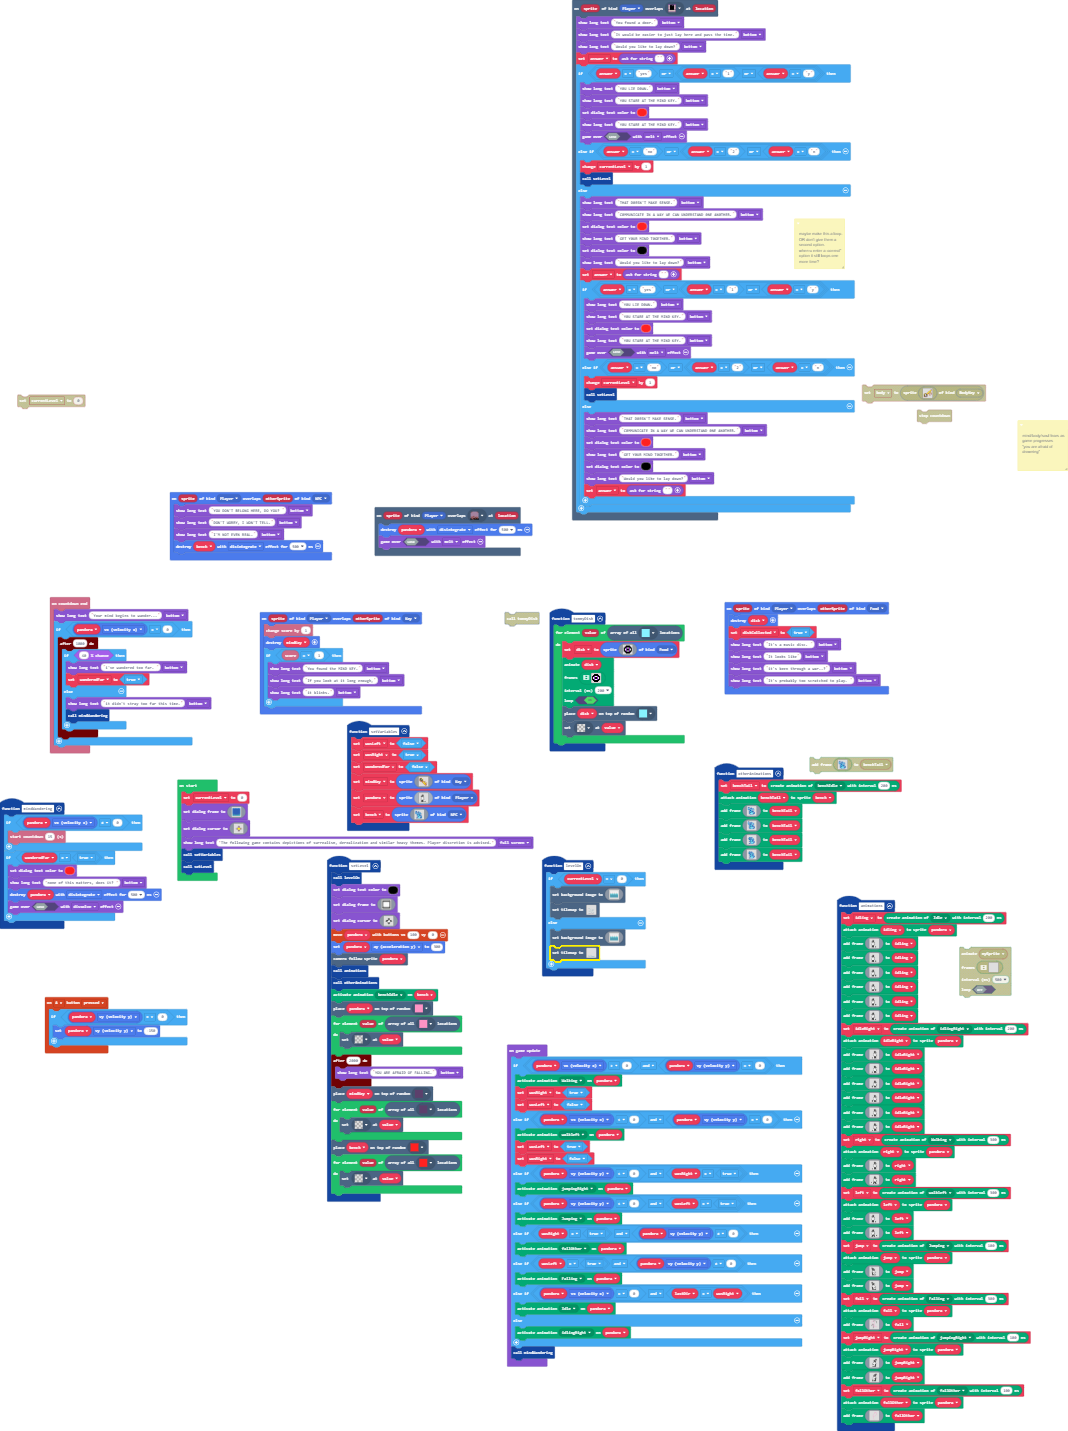
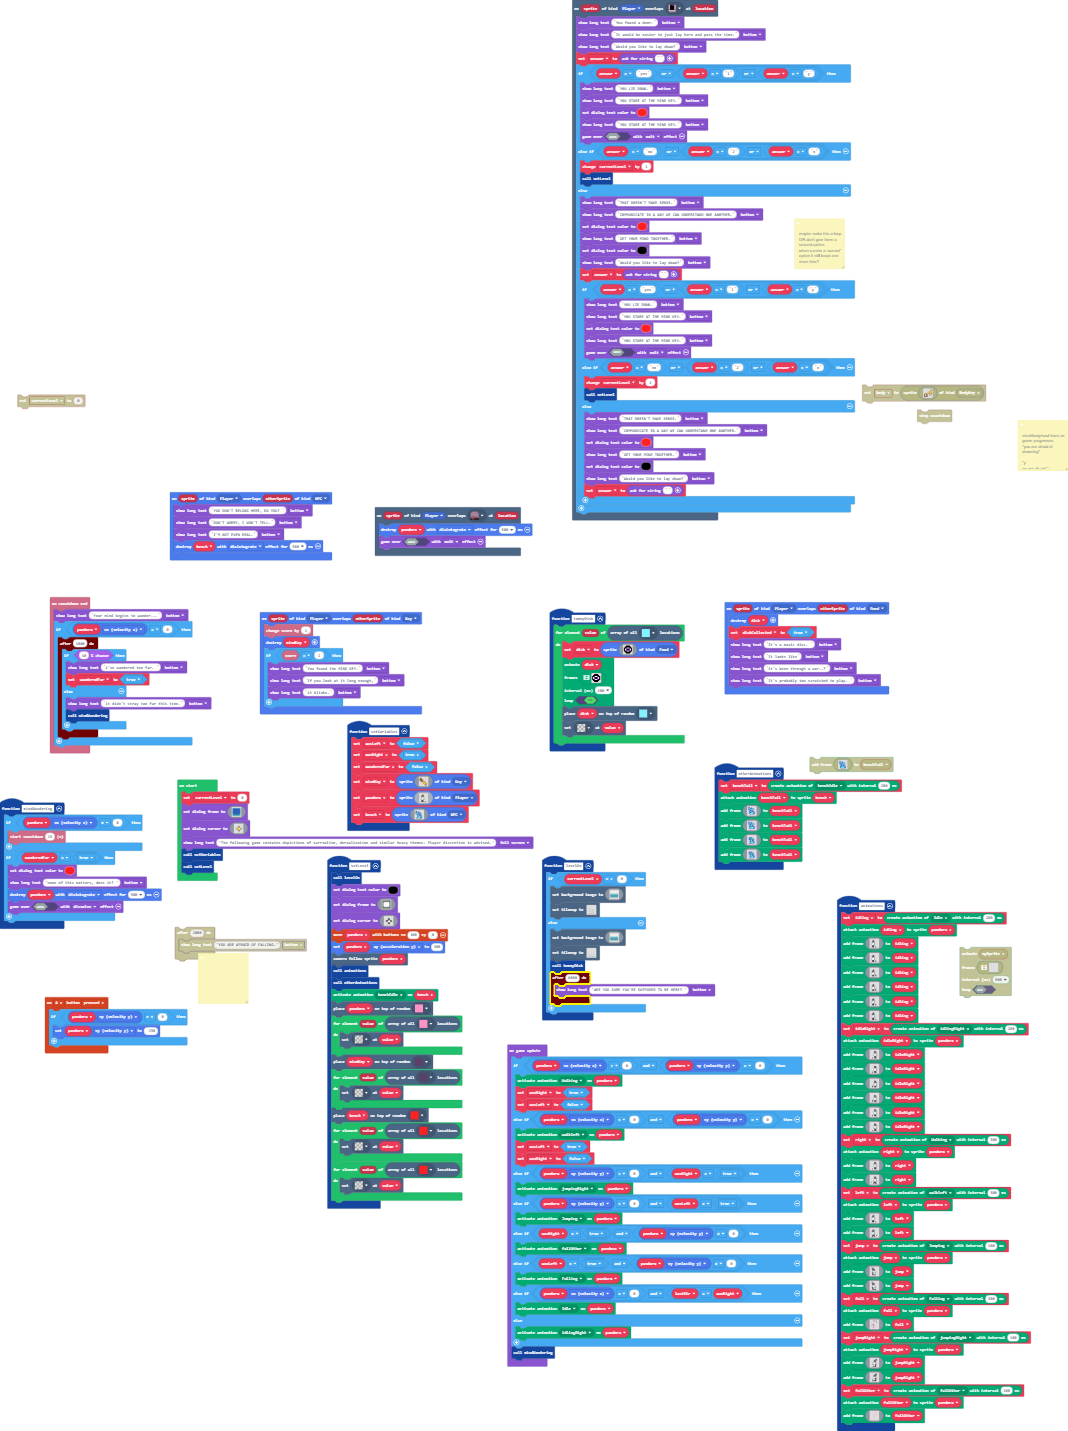
Update main.blocks, main.ts, tilemap.g.jres, tilemap.g.ts

diff --git a/tilemap.g.ts b/tilemap.g.ts
@@ -12,6 +12,12 @@ namespace myTiles {
     export const tile4 = image.ofBuffer(hex``);
     //% fixedInstance jres blockIdentity=images._tile
     export const tile5 = image.ofBuffer(hex``);
+    //% fixedInstance jres blockIdentity=images._tile
+    export const tile6 = image.ofBuffer(hex``);
+    //% fixedInstance jres blockIdentity=images._tile
+    export const tile7 = image.ofBuffer(hex``);
+    //% fixedInstance jres blockIdentity=images._tile
+    export const tile8 = image.ofBuffer(hex``);
 
     helpers._registerFactory("tilemap", function(name: string) {
         switch(helpers.stringTrim(name)) {
@@ -34,8 +40,65 @@ namespace myTiles {
 . . . . . . . . . . . . . . . . 
 . . . . . . . . . . . . . . . . 
 `, [myTiles.transparency16], TileScale.Sixteen);
+            case "level3":
+            case "level3":return tiles.createTilemap(hex`1000100000000000000000000000000000000000000000000000000000000000000000000000000000000000000000000000000000000000000000000000000000000000000000000000000000000000000000000000000000000000000000000000000000000000000000000000000000000000000000000000000000000000000000000000000000000000000000000000000000000000000000000000000000000000000000000000000000000000000000000000000000000000000000000000000000000000000000000000000000000000000000000000000000000000000000000000000000000000000000000000000000000000000000000000000000000000`, img`
+. . . . . . . . . . . . . . . . 
+. . . . . . . . . . . . . . . . 
+. . . . . . . . . . . . . . . . 
+. . . . . . . . . . . . . . . . 
+. . . . . . . . . . . . . . . . 
+. . . . . . . . . . . . . . . . 
+. . . . . . . . . . . . . . . . 
+. . . . . . . . . . . . . . . . 
+. . . . . . . . . . . . . . . . 
+. . . . . . . . . . . . . . . . 
+. . . . . . . . . . . . . . . . 
+. . . . . . . . . . . . . . . . 
+. . . . . . . . . . . . . . . . 
+. . . . . . . . . . . . . . . . 
+. . . . . . . . . . . . . . . . 
+. . . . . . . . . . . . . . . . 
+`, [myTiles.transparency16], TileScale.Sixteen);
+            case "level5":
+            case "level5":return tiles.createTilemap(hex`1000100000000000000000000000000000000000000000000000000000000000000000000000000000000000000000000000000000000000000000000000000000000000000000000000000000000000000000000000000000000000000000000000000000000000000000000000000000000000000000000000000000000000000000000000000000000000000000000000000000000000000000000000000000000000000000000000000000000000000000000000000000000000000000000000000000000000000000000000000000000000000000000000000000000000000000000000000000000000000000000000000000000000000000000000000000000000`, img`
+. . . . . . . . . . . . . . . . 
+. . . . . . . . . . . . . . . . 
+. . . . . . . . . . . . . . . . 
+. . . . . . . . . . . . . . . . 
+. . . . . . . . . . . . . . . . 
+. . . . . . . . . . . . . . . . 
+. . . . . . . . . . . . . . . . 
+. . . . . . . . . . . . . . . . 
+. . . . . . . . . . . . . . . . 
+. . . . . . . . . . . . . . . . 
+. . . . . . . . . . . . . . . . 
+. . . . . . . . . . . . . . . . 
+. . . . . . . . . . . . . . . . 
+. . . . . . . . . . . . . . . . 
+. . . . . . . . . . . . . . . . 
+. . . . . . . . . . . . . . . . 
+`, [myTiles.transparency16], TileScale.Sixteen);
+            case "level6":
+            case "level6":return tiles.createTilemap(hex`1000100000000000000000000000000000000000000000000000000000000000000000000000000000000000000000000000000000000000000000000000000000000000000000000000000000000000000000000000000000000000000000000000000000000000000000000000000000000000000000000000000000000000000000000000000000000000000000000000000000000000000000000000000000000000000000000000000000000000000000000000000000000000000000000000000000000000000000000000000000000000000000000000000000000000000000000000000000000000000000000000000000000000000000000000000000000000`, img`
+. . . . . . . . . . . . . . . . 
+. . . . . . . . . . . . . . . . 
+. . . . . . . . . . . . . . . . 
+. . . . . . . . . . . . . . . . 
+. . . . . . . . . . . . . . . . 
+. . . . . . . . . . . . . . . . 
+. . . . . . . . . . . . . . . . 
+. . . . . . . . . . . . . . . . 
+. . . . . . . . . . . . . . . . 
+. . . . . . . . . . . . . . . . 
+. . . . . . . . . . . . . . . . 
+. . . . . . . . . . . . . . . . 
+. . . . . . . . . . . . . . . . 
+. . . . . . . . . . . . . . . . 
+. . . . . . . . . . . . . . . . 
+. . . . . . . . . . . . . . . . 
+`, [myTiles.transparency16], TileScale.Sixteen);
             case "level2":
[1 lines of base64/hex data omitted]
+            case "level2":return tiles.createTilemap(hex`20003000000000000000000000000000000000000000000000000000000000000000000000000000000000000000000000000000000000000000000000000000000000000000000000000000000000000000000000000000000000000000000000000000000000000000000000000000000000000000000000000000000000000000000000000000000000000000000000000000000000000000000000000000000000000000000000000000000000000000000000000000000000000000000000000000000000000000000000000000000000000000000000000000000000000000000000000000000000000000000000000000000000000000000000000000000000000000000000000000000000000000000000000000000000000000000000000000000000000000000000000000000000000000000000000000000000000000000000000000000000000000000000000000000000000000000000000000000000000000000000000000000000000000000000000000000000000000000000000000000808080000000000000000000000000000000000000000000000000000000000090909000000000000000000000000000000000000000000000000000000000001010101010000000000000000000000000000000000000000000000000000000000000000000100000000000000000000000000000000000000000000000000000000000000000000000000000000000000000000000000000000000000000000000000000000010000000000000000000000000000000000000000000000000000000000000000000000000000000000000001000000000000000000000000000000000000000000010000000000000000000000000000000000000000000000000000000000000000010000000000000000000000000101010000000000000000000000000000000000000001000000000000000000000000000100000000000000000000000000000000000000000000000000000000000000000000000000000000000000000000000000000000000000000000000000000000000003000000000000000000000000000000000000000000000007000000060000000000000000000000000000000000000000000000000303030303030303030300000000000000000000000000000000000000030000000000000000000000000000000000000000000300000000000000000000000000000000000000000000000000000003000000000000000300000003000000000000000000000000000000000000000000000000000000000000000000000000000000000000000000000000030000000000000000000000000000000000000000000000000000000000000000000000000000000000000000000000000000000000000000000000000000000000030000000000000300000000000000000000000000000000000000000000000000000000000000000000030300000000030000000000000000000000000000000000030300000000000000000000000000000003000000000000000000000000000000000000000000000000000000000000000300000003030300000000000000000000000000000000000000000000000000000000000000000000000000000000000000000000000000000000000000000000000000000000030000000000000000000000000000000000000000000000000000000000000000000000000000000000000000000000000000000303030000000000000000000000000300000000000000000000000000000000000000000000000000000000000000000000000000000000000000000003000000000000000000000000000303030000000000000000000000000000000000000000000000000000000000030000000000050000000000000303030000000000000000000000000003030000000000000000000000000000000000000000000000000000000000000000000000000000000103030304000000000000000000000000000000000000000000000000000000000000000000000000000000000000000000000000000000000000000000000202020202020202020202020202020202020202020202020202020202020202`, img`
 ................................
 ................................
 ................................
@@ -84,28 +147,9 @@ namespace myTiles {
 .22222..........................
 ................................
 ................................
-`, [myTiles.transparency16,sprites.swamp.swampTile0,sprites.builtin.forestTiles12,sprites.swamp.swampTile1,sprites.swamp.swampTile2,myTiles.tile1,myTiles.tile3,myTiles.tile4,sprites.dungeon.doorOpenNorth,sprites.dungeon.doorOpenSouth,myTiles.tile5], TileScale.Sixteen);
-            case "level3":
-            case "level3":return tiles.createTilemap(hex`1000100000000000000000000000000000000000000000000000000000000000000000000000000000000000000000000000000000000000000000000000000000000000000000000000000000000000000000000000000000000000000000000000000000000000000000000000000000000000000000000000000000000000000000000000000000000000000000000000000000000000000000000000000000000000000000000000000000000000000000000000000000000000000000000000000000000000000000000000000000000000000000000000000000000000000000000000000000000000000000000000000000000000000000000000000000000000`, img`
-. . . . . . . . . . . . . . . . 
-. . . . . . . . . . . . . . . . 
-. . . . . . . . . . . . . . . . 
-. . . . . . . . . . . . . . . . 
-. . . . . . . . . . . . . . . . 
-. . . . . . . . . . . . . . . . 
-. . . . . . . . . . . . . . . . 
-. . . . . . . . . . . . . . . . 
-. . . . . . . . . . . . . . . . 
-. . . . . . . . . . . . . . . . 
-. . . . . . . . . . . . . . . . 
-. . . . . . . . . . . . . . . . 
-. . . . . . . . . . . . . . . . 
-. . . . . . . . . . . . . . . . 
-. . . . . . . . . . . . . . . . 
-. . . . . . . . . . . . . . . . 
-`, [myTiles.transparency16], TileScale.Sixteen);
+`, [myTiles.transparency16,sprites.swamp.swampTile0,sprites.builtin.forestTiles12,sprites.swamp.swampTile1,sprites.swamp.swampTile2,myTiles.tile1,myTiles.tile3,myTiles.tile4,sprites.dungeon.doorOpenNorth,sprites.dungeon.doorOpenSouth], TileScale.Sixteen);
             case "level4":
-            case "level4":return tiles.createTilemap(hex`200028000000000000000000000000000000000000000000000000000000000000000000000000000000000000000000000000000000000000000000000000000000000000000000000000000000000000000000000000000000000000000000000000000000000000000000000000000000000000000000000000000000000000000000000000000000000000000000000000000000000000000000000000000000000000000000000000000000000000000000000000000000000000000000000000000000000000000000000000000000000000000000000000000000000000000000000000000000000000000000000000000000000000000000000000000000000000000000000000000000000000000000000000000000000000000000000000000000000000000000000000000000000000000000000000000000000000000000000000000000000000000000000000000000000000000000000000000000000000000000000000000000000000000000000000000000000000000000000000000000000000000000000000000000000000000000000000000000000000000000000000000000000000000000000000000000000000000000000000000000000000000000000000000000000000000000000000000000000000000000000000000000000000000000000000000000000000000000000000000000000000000000000000000000000000000000000000000000000000000000000000000000000000000000000000000000000000000000000000000000000000000000000000000000000000000000000000000000000000000000000000000000000000000000000000000000000000000000000000000000000000000000000000000000000000000000000000000000000000000000000000000000000000000000000000000000000000000000000000000000000000000000000000000000000000000000000000000000000000000000000000000000000000000000000000000000000000000000000000000000000000000000000000000000000000000000000000000000000000000000000000000000000000000000000000000000000000000000000000000000000000000000000000000000000000000000000000000000000000000000000000000000000000000000000000000000000000000000000000000000000000000000000000000000000000000000000000000000000000000000000000000000000000000000000000000000000000000000000000000000000000000000000000000000000000000000000000000000000000000000000000000000000000000000000000000200000000000000000000000000000000000000000000000000000000000000000000000000000000000000000000000000000000000000000000000000000000000200000000000000000000000000000000000000000000000000000000000000020000000000000000000000000000000000000002000000000000000000000000000200000000000000000000000000000000000200000002020200000000000000000002000000000000000000000000000000000000000000000000000000000000000200020000000000020000000000000000000000000000000000000000000000000000000202000000000202020200000000000000000000000000000000000000000000000000000000000000000101010101010101010101010101010101010101010101010101010101010101`, img`
+            case "level4":return tiles.createTilemap(hex`200028000000000000000000000000000000000000000000000000000000000000000000000000000000000000000000000000000000000000000000000000000000000000000000000000000000000000000000000000000000000000000000000000000000000000000000000000000000000000000000000000000000000000000000000000000000000000000000000000000000000000000000000000000000000000000000000000000000000000000000000000000000000000000000000000000000000000000000000000000000000000000000000000000000000000000000000000000000000000000000000000000000000000000000000000000000000000000000000000000000000000000000000000000000000000000000000000000000000000000000000000000000000000000000000000000000000000000000000000000000000000000000000000000000000000000000000000000000000000000000000000000000000000000000000000000000000000000000000000000000000000000000000000000000000000000000000000000000000000000000000000000000000000000000000000000000000000000000000000000000000000000000000000000000000000000000000000000000000000000000000000000000000000000000000000000000000000000000000000000000000000000000000000000000000000000000000000000000000000000000000000000000000000000000000000000000000000000000000000000000000000000000000000000000000000000000000000000000000000000000000000000000000000000000000000000000000000000000000000000000000000000000000000000000000000000000000000000000000000000000000000000000000000000000000000000000000000000000000000000000000000000000000000000000000000000000000000000000000000000000000000000000000000000000000000000000000000000000000000000000000000000000000000000000000000000000000000000000000000000000000000000000000000000000000000000000000000000000000000000000000000000000000000000003000000000000000000030202020600000000000000000000000300000000000000000000030000000000000000000000000000000000000000000000000000000000000000000000000000000000000000000000030300000000000000000000000000000000000000000000000000000000000000000000000000000000000000000000000000000000000000000000000002000000000000000000000000000000000000000000000000000000000000000000000000000000020000000000000000000000000000000000000003000000000000000000000000000000000000000000000000000000000000000000000000000000000000000000020000000000000000000000000000000000000300000000000000000000000000000000000000000000000000000000040000000003000000000000000000000000000002000000000000000000000000000000000000000000000000000000000000000000000000000000020000000000000000000000000003000005000000000000000000000202000000000202020200000000000000000000030300000000000000000000000000000000000000000101010101010101010101010101010101010101010101010101010101010101`, img`
 ................................
 ................................
 ................................
@@ -131,60 +175,22 @@ namespace myTiles {
 ................................
 ................................
 ................................
+.................2.........22222
+...........2..........2.........
 ................................
+......22........................
 ................................
+....2...........................
+............2...................
+2...............................
+..............2.................
+.2..............................
+...2..............2.............
+..........................2.....
+........2.............22....2222
+..........22....................
 ................................
-................................
-................................
-................................
-................................
-................................
-................................
-................................
-................................
-................................
-................................
-................................
-................................
-`, [myTiles.transparency16,sprites.dungeon.hazardWater,sprites.swamp.swampTile1], TileScale.Sixteen);
-            case "level5":
-            case "level5":return tiles.createTilemap(hex`1000100000000000000000000000000000000000000000000000000000000000000000000000000000000000000000000000000000000000000000000000000000000000000000000000000000000000000000000000000000000000000000000000000000000000000000000000000000000000000000000000000000000000000000000000000000000000000000000000000000000000000000000000000000000000000000000000000000000000000000000000000000000000000000000000000000000000000000000000000000000000000000000000000000000000000000000000000000000000000000000000000000000000000000000000000000000000`, img`
-. . . . . . . . . . . . . . . . 
-. . . . . . . . . . . . . . . . 
-. . . . . . . . . . . . . . . . 
-. . . . . . . . . . . . . . . . 
-. . . . . . . . . . . . . . . . 
-. . . . . . . . . . . . . . . . 
-. . . . . . . . . . . . . . . . 
-. . . . . . . . . . . . . . . . 
-. . . . . . . . . . . . . . . . 
-. . . . . . . . . . . . . . . . 
-. . . . . . . . . . . . . . . . 
-. . . . . . . . . . . . . . . . 
-. . . . . . . . . . . . . . . . 
-. . . . . . . . . . . . . . . . 
-. . . . . . . . . . . . . . . . 
-. . . . . . . . . . . . . . . . 
-`, [myTiles.transparency16], TileScale.Sixteen);
-            case "level6":
-            case "level6":return tiles.createTilemap(hex`1000100000000000000000000000000000000000000000000000000000000000000000000000000000000000000000000000000000000000000000000000000000000000000000000000000000000000000000000000000000000000000000000000000000000000000000000000000000000000000000000000000000000000000000000000000000000000000000000000000000000000000000000000000000000000000000000000000000000000000000000000000000000000000000000000000000000000000000000000000000000000000000000000000000000000000000000000000000000000000000000000000000000000000000000000000000000000`, img`
-. . . . . . . . . . . . . . . . 
-. . . . . . . . . . . . . . . . 
-. . . . . . . . . . . . . . . . 
-. . . . . . . . . . . . . . . . 
-. . . . . . . . . . . . . . . . 
-. . . . . . . . . . . . . . . . 
-. . . . . . . . . . . . . . . . 
-. . . . . . . . . . . . . . . . 
-. . . . . . . . . . . . . . . . 
-. . . . . . . . . . . . . . . . 
-. . . . . . . . . . . . . . . . 
-. . . . . . . . . . . . . . . . 
-. . . . . . . . . . . . . . . . 
-. . . . . . . . . . . . . . . . 
-. . . . . . . . . . . . . . . . 
-. . . . . . . . . . . . . . . . 
-`, [myTiles.transparency16], TileScale.Sixteen);
+`, [myTiles.transparency16,sprites.dungeon.hazardWater,sprites.swamp.swampTile1,sprites.swamp.swampTile0,myTiles.tile1,myTiles.tile5,sprites.swamp.swampTile2], TileScale.Sixteen);
         }
         return null;
     })
@@ -202,6 +208,12 @@ namespace myTiles {
             case "tile4":return tile4;
             case "myTile3":
             case "tile5":return tile5;
+            case "myTile4":
+            case "tile6":return tile6;
+            case "myTile5":
+            case "tile7":return tile7;
+            case "myTile6":
+            case "tile8":return tile8;
         }
         return null;
     })

diff --git a/main.ts b/main.ts
@@ -18,6 +18,10 @@ namespace SpriteKind {
  * mind/body/soul fears as game progresses
  * 
  * "you are afraid of drowning"
+ * 
+ * "y
+ * 
+ * ou are afr aid."
  */
 function setLevel () {
     levelOn()
@@ -76,14 +80,14 @@ function setLevel () {
     for (let value of tiles.getTilesByType(assets.tile`myTile`)) {
         tiles.setTileAt(value, assets.tile`transparency16`)
     }
-    timer.after(2000, function () {
-        game.showLongText("YOU ARE AFRAID OF FALLING.", DialogLayout.Bottom)
-    })
     tiles.placeOnRandomTile(mindKey, assets.tile`myTile1`)
     for (let value of tiles.getTilesByType(assets.tile`myTile1`)) {
         tiles.setTileAt(value, assets.tile`transparency16`)
     }
     tiles.placeOnRandomTile(bench, assets.tile`myTile2`)
+    for (let value of tiles.getTilesByType(assets.tile`myTile2`)) {
+        tiles.setTileAt(value, assets.tile`transparency16`)
+    }
     for (let value of tiles.getTilesByType(assets.tile`myTile2`)) {
         tiles.setTileAt(value, assets.tile`transparency16`)
     }
@@ -337,6 +341,10 @@ function levelOn () {
             6666666666666666666666666666666666666666666666666666666666666666666666666666666666666666666666666666666666666666666666666666666666666666666666666666666666666666
             `)
         tiles.setTilemap(tilemap`level4`)
+        tommyDisk()
+        timer.after(6000, function () {
+            game.showLongText("ARE YOU SURE YOU'RE SUPPOSED TO BE HERE? ", DialogLayout.Bottom)
+        })
     }
 }
 /**
@@ -392,6 +400,8 @@ sprites.onOverlap(SpriteKind.Player, SpriteKind.NPC, function (sprite, otherSpri
     game.showLongText("I'M NOT EVEN REAL.", DialogLayout.Bottom)
     bench.destroy(effects.disintegrate, 500)
 })
+/**
+ */
 controller.A.onEvent(ControllerButtonEvent.Pressed, function () {
     if (pandora.vy == 0) {
         pandora.vy = -150
